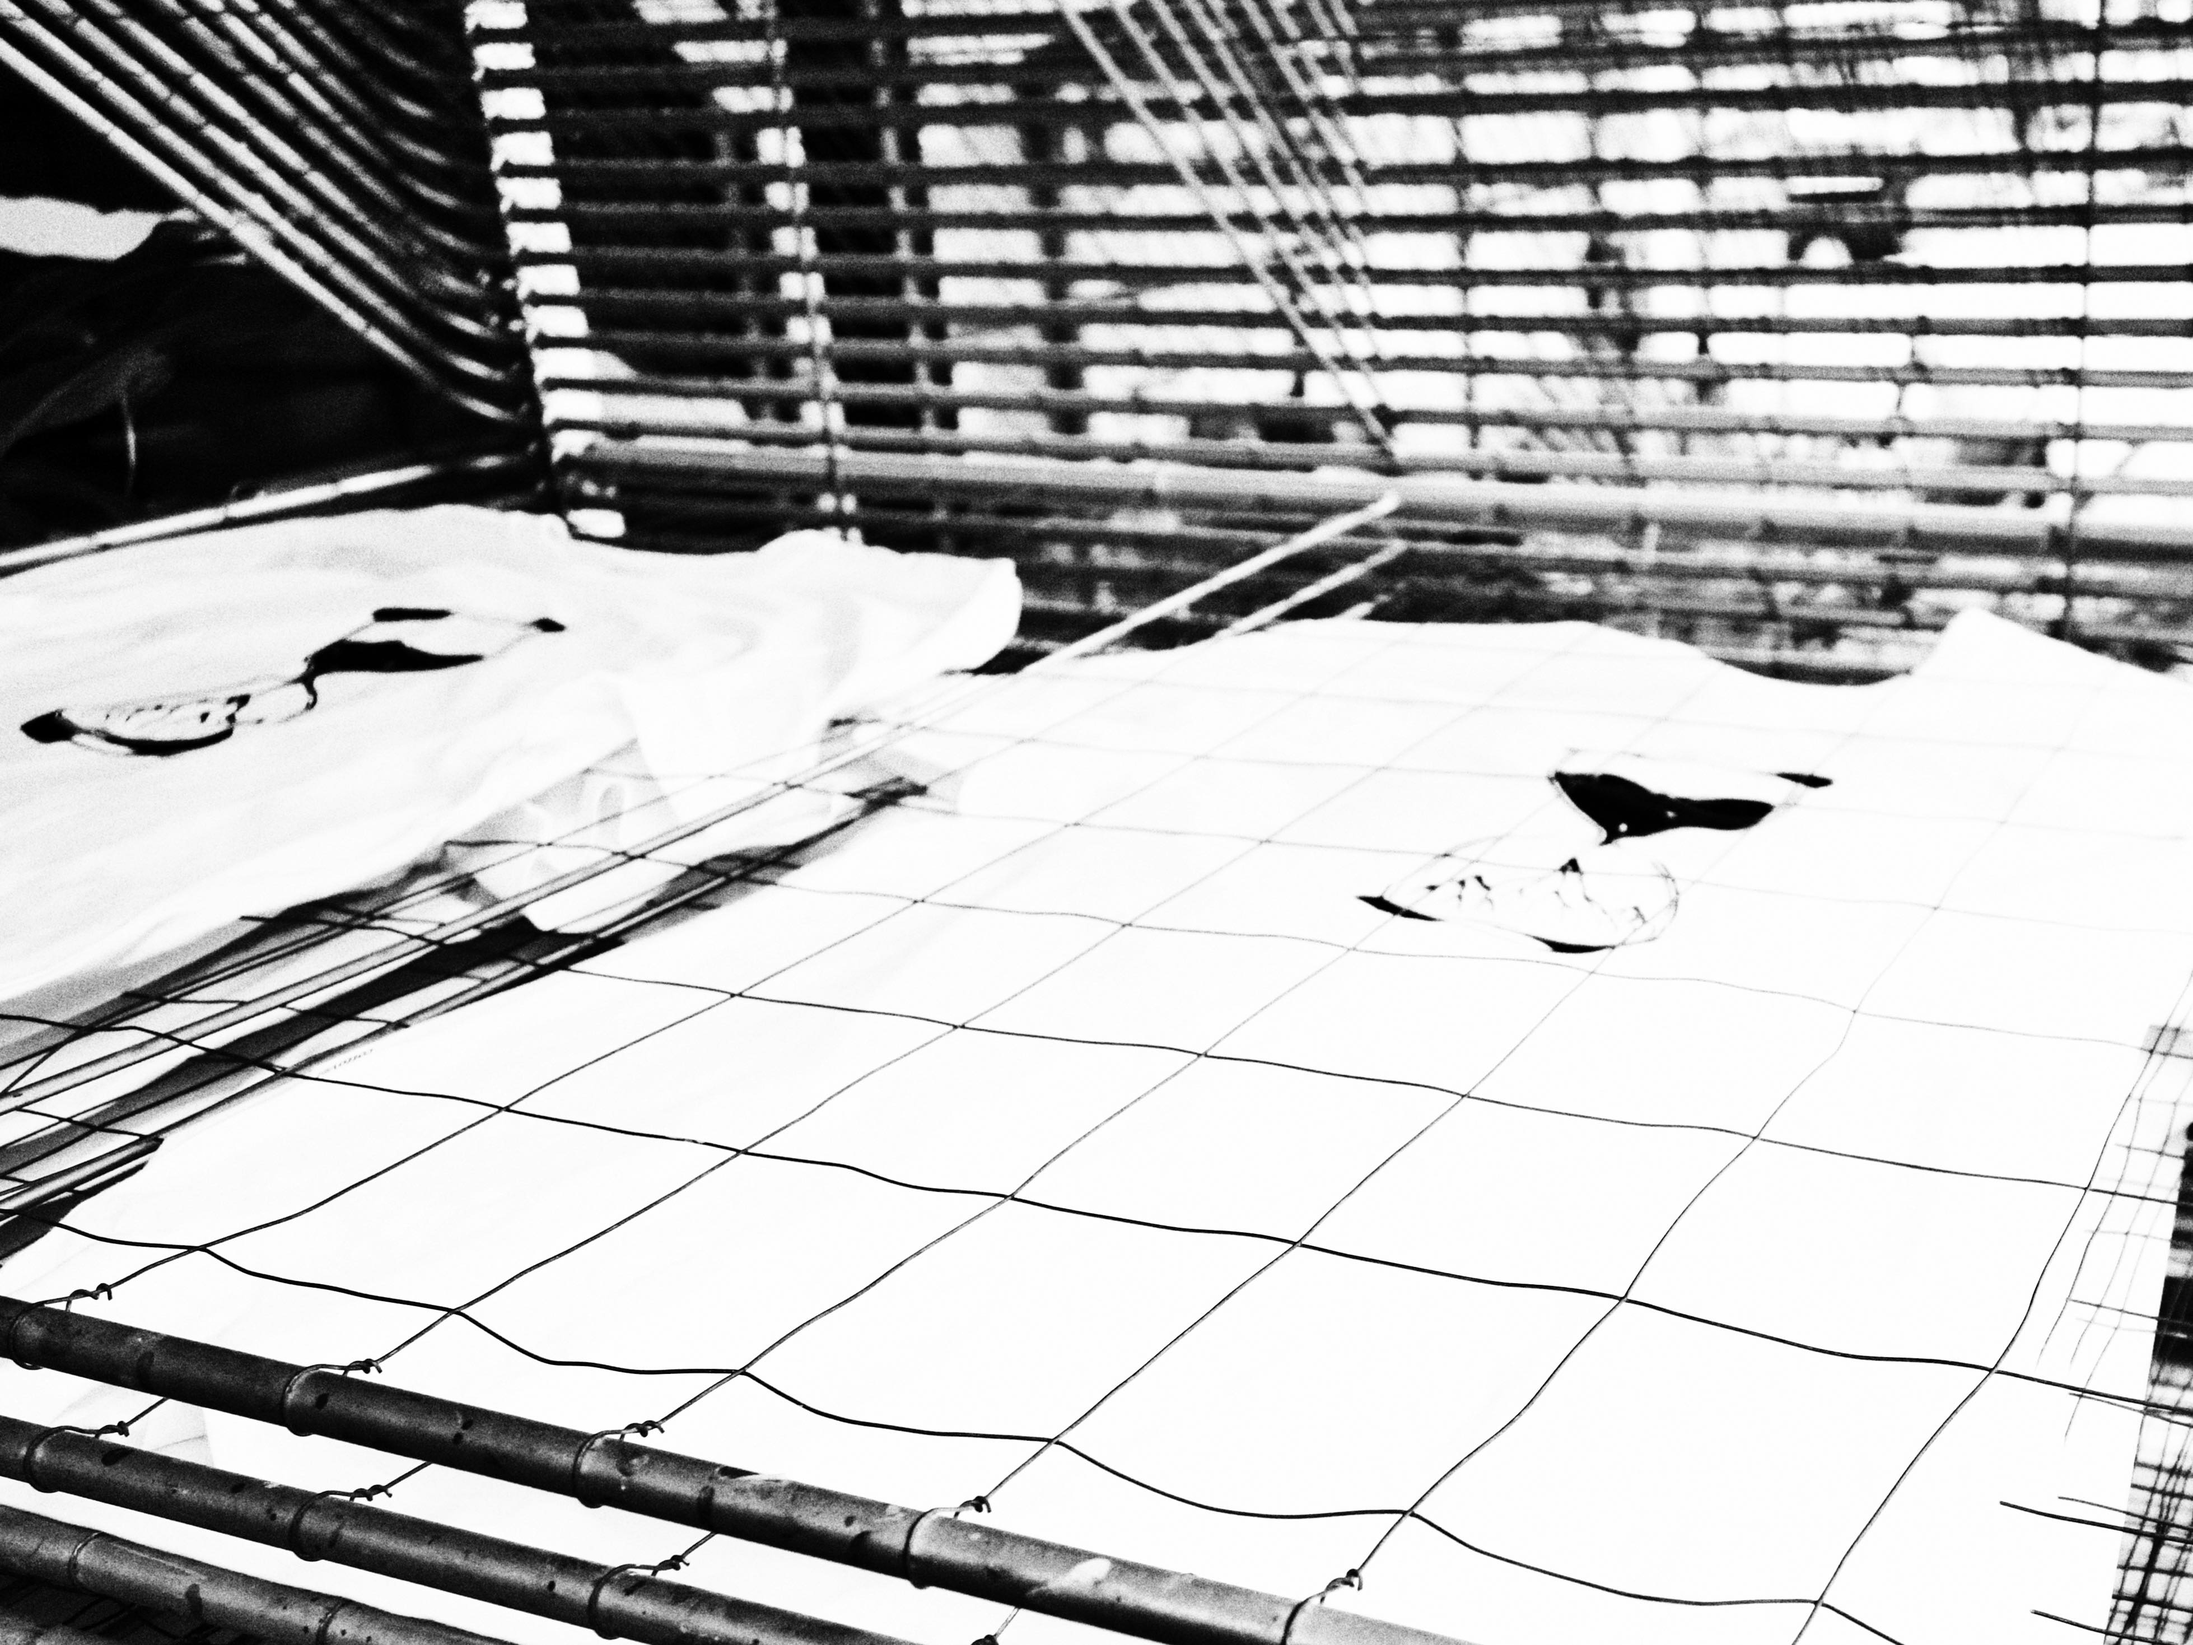
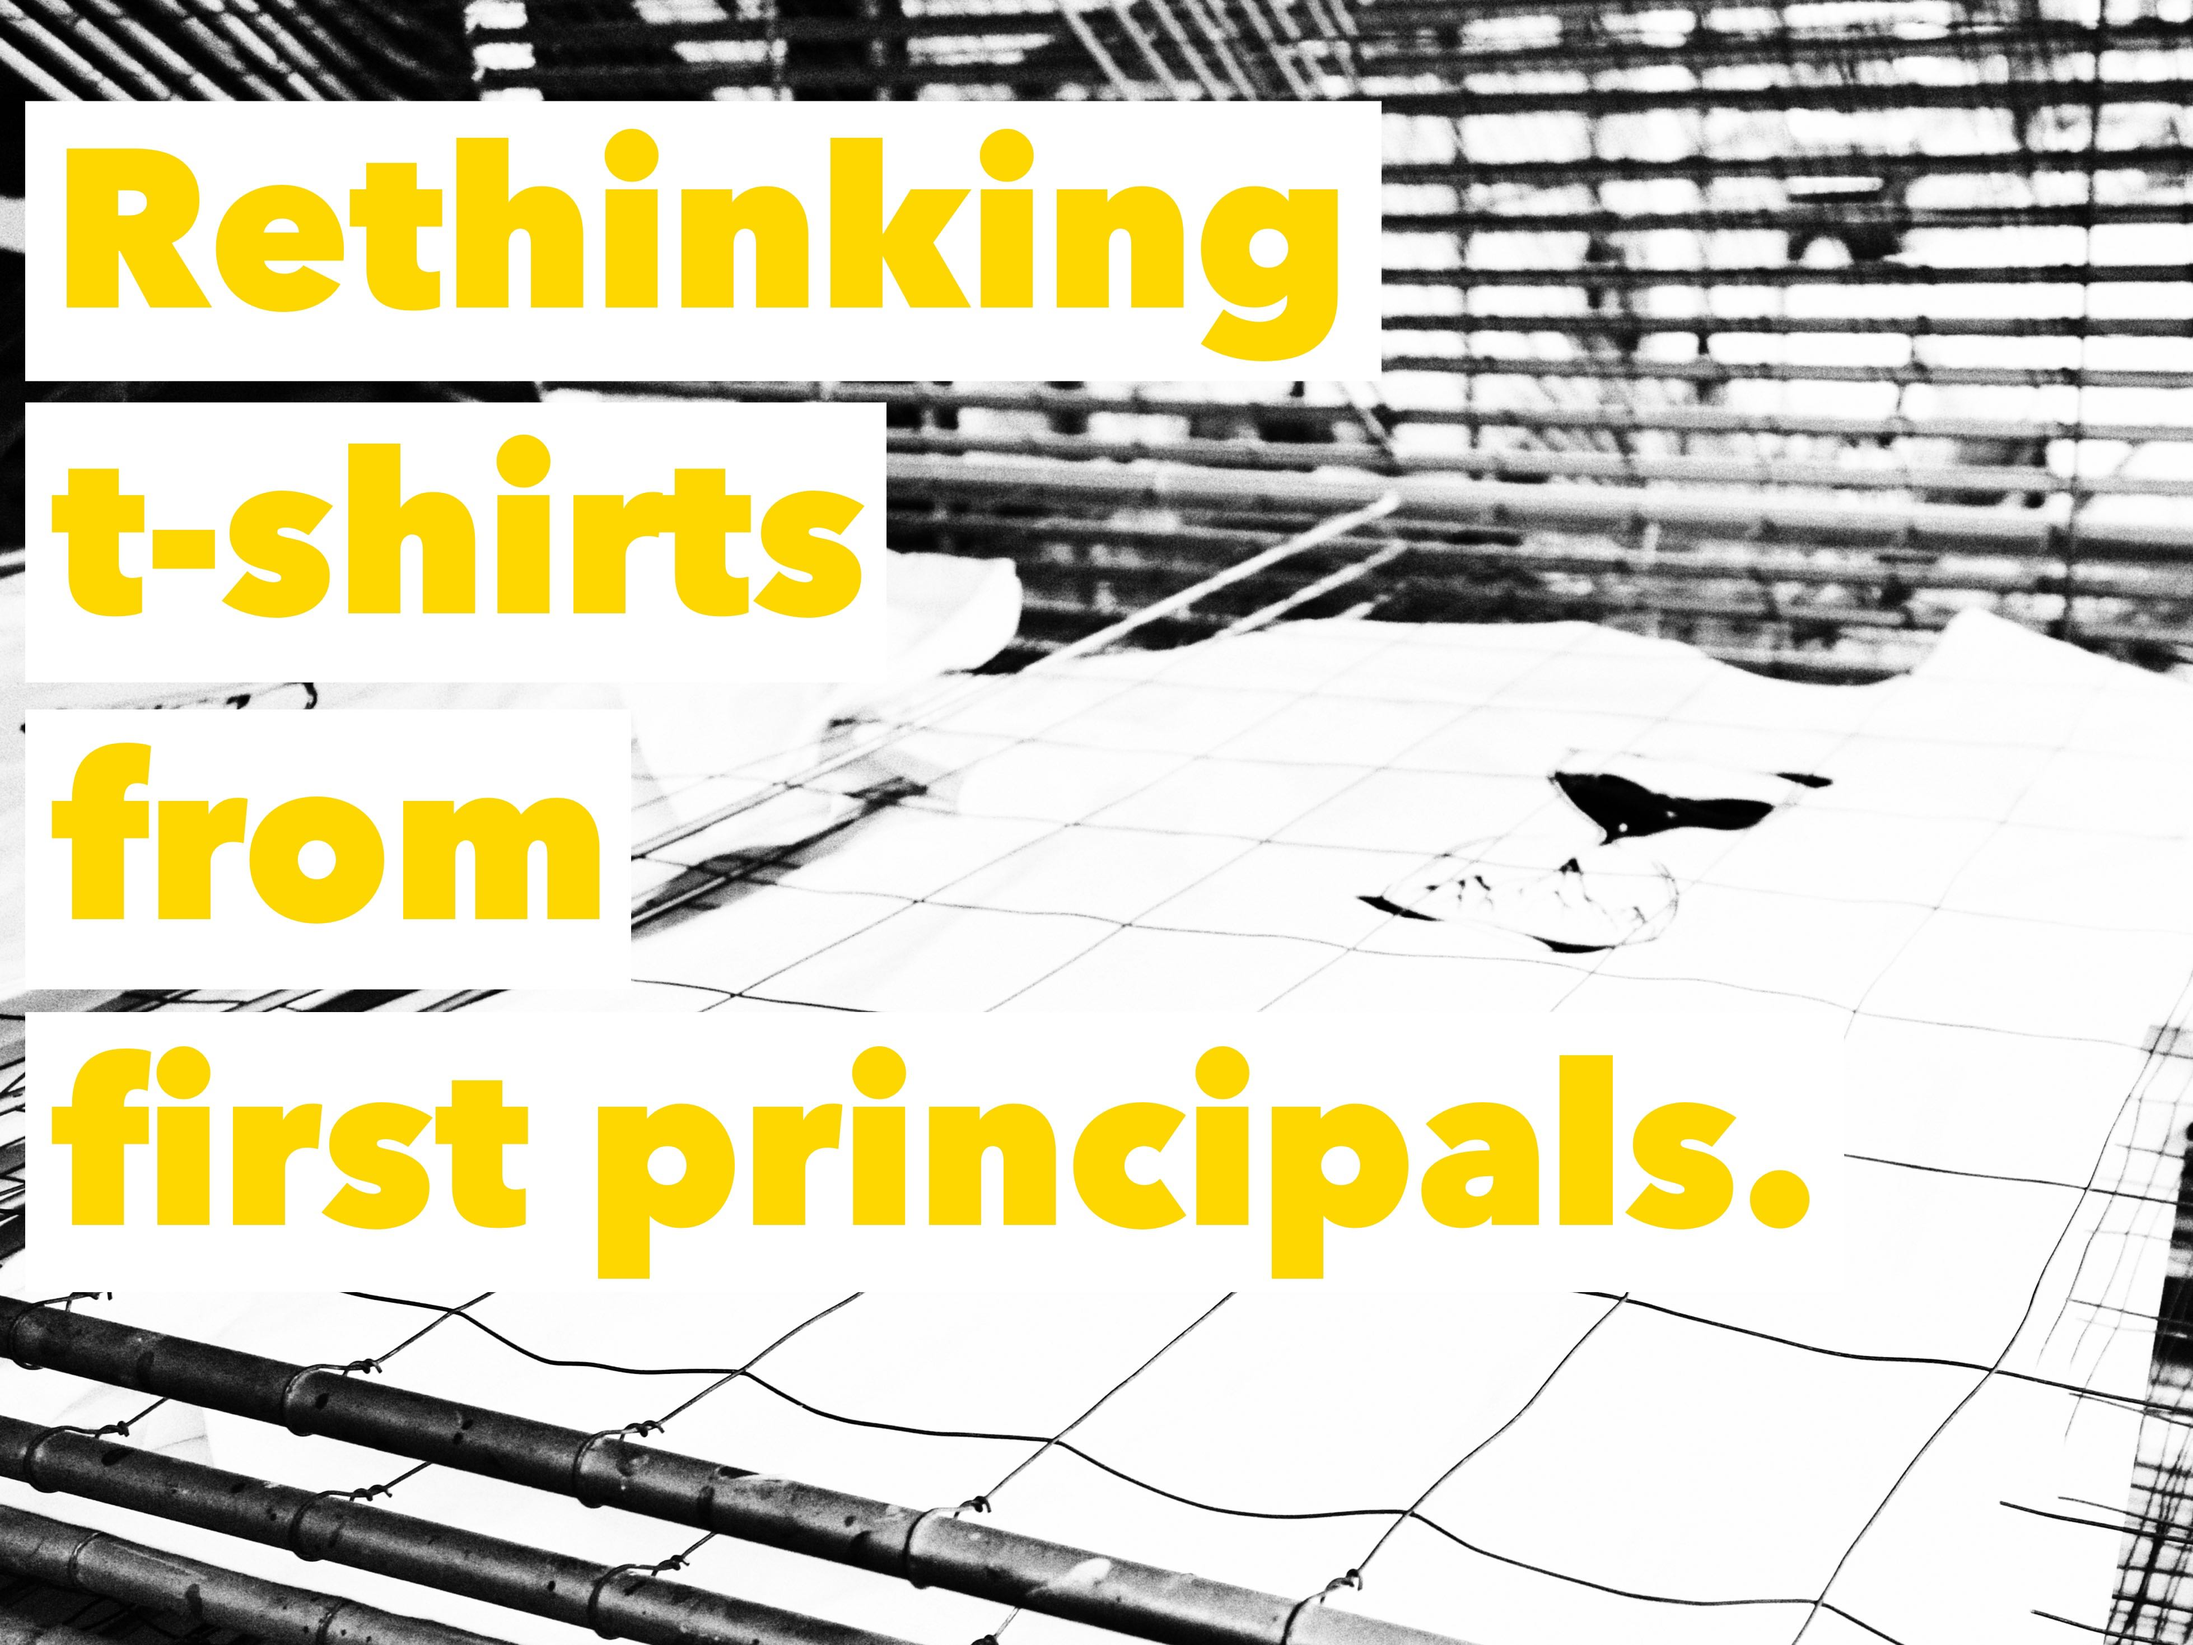
Fixing newsletter signup misalignment and changing front page image.

Changed region(s): [[0.0, 0.062, 0.6542, 0.4338], [0.0, 0.4338, 0.8412, 0.7746], [0.1246, 0.7746, 0.1558, 0.8056]]

diff --git a/src/components/Footer.js b/src/components/Footer.js
@@ -1,6 +1,7 @@
 import React from "react";
 import jsonp from "jsonp";
 import instaLogo from "./icons/insta.png";
+import FooterStyles from './Footer.modules.scss';
 
 export default class Footer extends React.Component {
   constructor(props) {
@@ -66,12 +67,12 @@ export default class Footer extends React.Component {
           <legend className="pa0 f6 fw6 mb2 black-80">
             Sign up to stay in touch:
           </legend>
-          <div className="cf">
+          <div className="cf sans-serif ba b--black-20 br2">
             <label className="clip" htmlFor="email-address">
               Email Address
             </label>
             <input
-              className="f6 f5-l input-reset ba b--black-20 fl black-80 bg-white pa3 lh-solid w-100 w-75-m w-80-l br2-ns br--left-ns"
+              className="f6 f5-l input-reset bn fl black-80 bg-white pa3 lh-solid w-100 w-75-m w-80-l br2-ns br--left-ns"
               placeholder="Your Email Address"
               type="text"
               name="EMAIL"

diff --git a/src/components/FrontPage.js b/src/components/FrontPage.js
@@ -3,22 +3,11 @@ import rethinkingtshirts from "./images/rethinking-tshirts-closer.jpg";
 import Footer from "./Footer";
 import { OutboundLink } from "gatsby-plugin-google-analytics";
 
-const mainImageStyle = {
-  backgroundImage: `url(${rethinkingtshirts})`,
-  backgroundRepeat: "no-repeat",
-  backgroundSize: "100%"
-};
-
-const mainTextStyle = {
-};
-
 export default () => (
   <div className="mw7 center avenir">
     <article className="db ph3 ph2-l mb4 br2-ns no-underline bg-white black">
-      <div style={mainImageStyle} className="w-100">
-        <p style={mainTextStyle} className="f-headline-ns f2 yellow b pl1 mt0 pb0-ns pb2">
-          Rethinking <br/> t-shirts <br/> from <br/> first principals
-        </p>
+      <div className="w-100">
+        <img src={rethinkingtshirts} class="w-100" alt="rethinking t-shirts" />
       </div>
     </article>
   </div>
